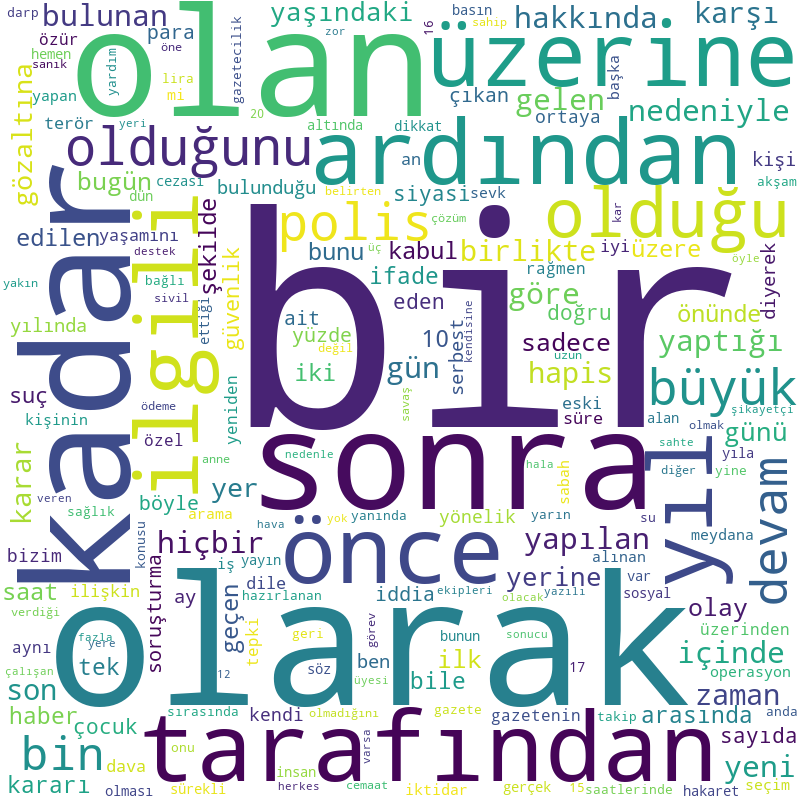
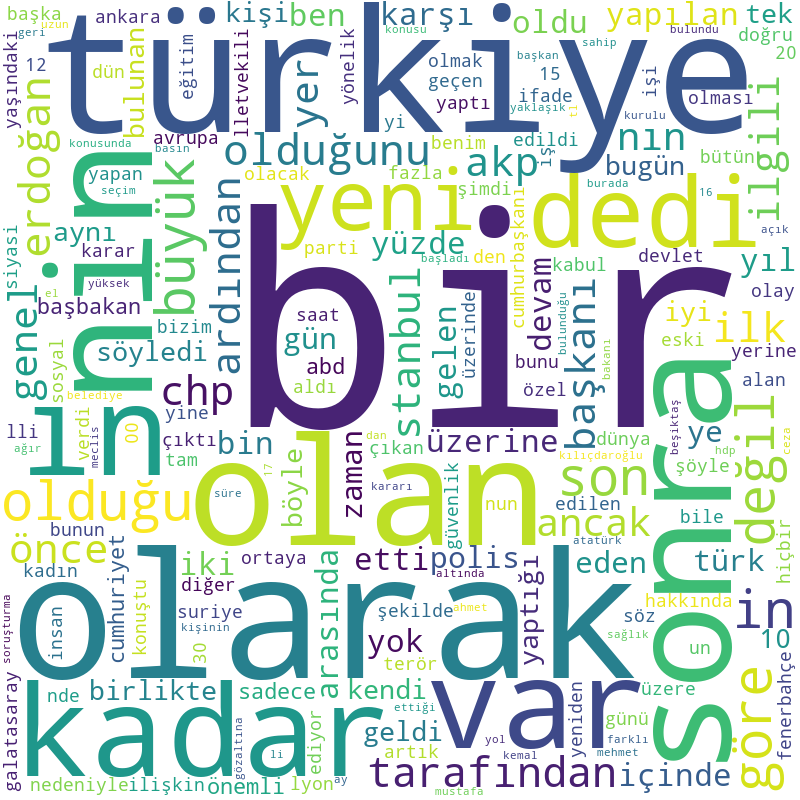
WordCloud, Zipfs, Heaps

diff --git a/project02.py b/project02.py
@@ -1,40 +1,22 @@
-from wordcloud import WordCloud, STOPWORDS 
-import matplotlib.pyplot as plt 
-import pandas as pd
-import  numpy as np
-from PIL import Image
-from sklearn.feature_extraction.text import TfidfVectorizer, CountVectorizer
-import requests
 import pickle
-from nltk.corpus import stopwords as stw
+from timeit import default_timer as Timer
 
-# def wordClouder():
-#     document = ""
-#     for i in docs:
-#         document += i
-#     if stopwords:
-#         stopwordsList = stw.words('turkish')
-#         wordcloud = WordCloud(
-#                 width = dim_size,
-#                 height= dim_size,
-#                 background_color="white",
-#                 stopwords=stopwordsList,
-#                 min_font_size=10,
-#             ).generate_from_text(document)
-#     else:
-#         wordcloud = WordCloud(
-#                 width = dim_size,
-#                 height= dim_size,
-#                 background_color="white",
-#                 # stopwords=stopwordsList,
-#                 min_font_size=10,
-#             ).generate_from_text(document)
-     
-#     wordcloud.to_file("outputs/project2_wordcloud_other.png")
+import matplotlib.pyplot as plt
+import numpy as np
+import pandas as pd
+import re
+from nltk.corpus import stopwords as stw
+from nltk.lm import MLE, KneserNeyInterpolated
+from PIL import Image
+from sklearn.feature_extraction.text import CountVectorizer, TfidfVectorizer
+from wordcloud import WordCloud
+
+frequency = {}
+vocabulary = []
 
 def create_WordCloud(docs, dim_size, output_file_path, mode="TF", stopwords=True):
+    stopwordsList = stw.words('turkish')
     if stopwords:
-        stopwordsList = stw.words('turkish')
         if mode == "TF":
             vectorizer = CountVectorizer(stop_words=stopwordsList)
         elif mode == "TFIDF":
@@ -53,24 +35,56 @@ def create_WordCloud(docs, dim_size, output_file_path, mode="TF", stopwords=True
     
     vectorizer.fit_transform(docs)
     vocabulary = vectorizer.get_feature_names()
-    frequency = {}
-    myList = []
-    for i in docs:
-        myList += i.split()
     
-    print("List is done: ", len(myList))
+    global tokenizor, preprocessor
+    preprocessor = vectorizer.build_preprocessor()
+    tokenizor = vectorizer.build_tokenizer()
 
-    for word in vocabulary:
-        frequency[word] = myList.count(word)
+    rawString = ""
+    for i in range(len(docs)):
+        rawString += preprocessor(docs[i])
+    
+    # Türkiye'nin -> Türkiye
+    rawString = re.sub(r'\'[\w]+', "" ,rawString)
+    # get rid of mi mı
+    rawString = re.sub(r'm[iı]', "", rawString)
 
+    tokens = tokenizor(rawString)
+    for token in tokens:
+        if stopwords:
+            if token not in stopwordsList:
+                if token in frequency.keys():
+                    frequency[token] += 1
+                else:
+                    frequency[token] = 1
+        else:
+            if token in frequency.keys():
+                frequency[token] += 1
+            else:
+                frequency[token] = 1
+
+    # myList = []
+    # for i in docs:
+    #     myList += i.split()
+    # print("List is done: ", len(myList))
+    
+    # # start = Timer()
+    # # for word in vocabulary:
+    # #     frequency[word] = myList.count(word)
+    # # end = Timer()
+    # # print(end-start)
+
+    # start = Timer()
     # for word in myList:
     #     if word in vocabulary:
     #         if word in frequency.keys():
     #             frequency[word] += 1
     #         else:
     #             frequency[word] = 1
+    # end = Timer()
+    # print(end-start)
     
-    print("Frequency is done")
+    # print("Frequency is done")
 
     # print(frequency)
     wordcloud = WordCloud(
@@ -81,18 +95,47 @@ def create_WordCloud(docs, dim_size, output_file_path, mode="TF", stopwords=True
         # stopwords=stopwordsList,
         min_font_size=10,
     ).generate_from_frequencies(frequency)
-
     wordcloud.to_file(output_file_path)
 
-
 def create_ZiphsPlot(docs, output_file_path):
-    return 0
+    sortedFrequencies = {k: v for k, v in reversed(sorted(frequency.items(), key=lambda item: item[1]))}
+    
+    freqs = [value for value in sortedFrequencies.values()]
+    ranks = range(1,len(sortedFrequencies)+1)
+    
+    plt.loglog(ranks, freqs, label="Zipf's Law Graph")
+    plt.xlabel("log(rank)")
+    plt.ylabel("log(frequency)")
+    plt.savefig(output_file_path)
+    plt.clf()
 
 def create_HeapsPlot(docs, output_file_path):
-    return 0
+    rawString = ""
+    for i in range(len(docs)):
+        rawString += preprocessor(docs[i])
+
+    tokens = tokenizor(rawString)
+    corpus = set()
+    length = []
+    index = range(1,len(tokens)+1)
+    for token in tokens:
+        corpus.add(token)
+        length.append(len(corpus))
+    
+    plt.plot(index, length, label="Heap's Law Graph")
+    plt.xlabel("Term Occurence")
+    plt.ylabel("Vocabulary Size")
+    plt.savefig(output_file_path)
+    plt.clf()
 
 def create_LanguageModel(docs, model_type="MLE", ngram=3):
-    return 0
+    if model_type == "MLE":
+        return MLE(ngram,vocabulary=vocabulary)
+    elif model_type == "KneserNeyInterpolated" :
+        return KneserNeyInterpolated(ngram,)
+    else:
+        print("Unkown Model Type")
+        return 0
 
 def generate_sentence(model, text="milli"):
     return 0,1
@@ -112,7 +155,16 @@ def read_Docs(path):
 path = "T_sample5000.pkl"
 doc = read_Docs(path)
 
+# doc = doc[:100]
 
 wordcloud_outputfile = "outputs/project2_wordcloud.png"
-create_WordCloud(doc[:100],800,wordcloud_outputfile,mode="TF",stopwords=True)
+create_WordCloud(doc,800,wordcloud_outputfile,mode="TFIDF",stopwords=True)
 print("WordCloud function worked!")
+
+zips_outputfile = "outputs/project2_zips.png"
+create_ZiphsPlot(doc,zips_outputfile)
+print("Ziph's Law function worked!")
+
+heaps_outputfile = "outputs/project2_heaps.png"
+create_HeapsPlot(doc,heaps_outputfile)
+print("Heaps' Law function worked!")
